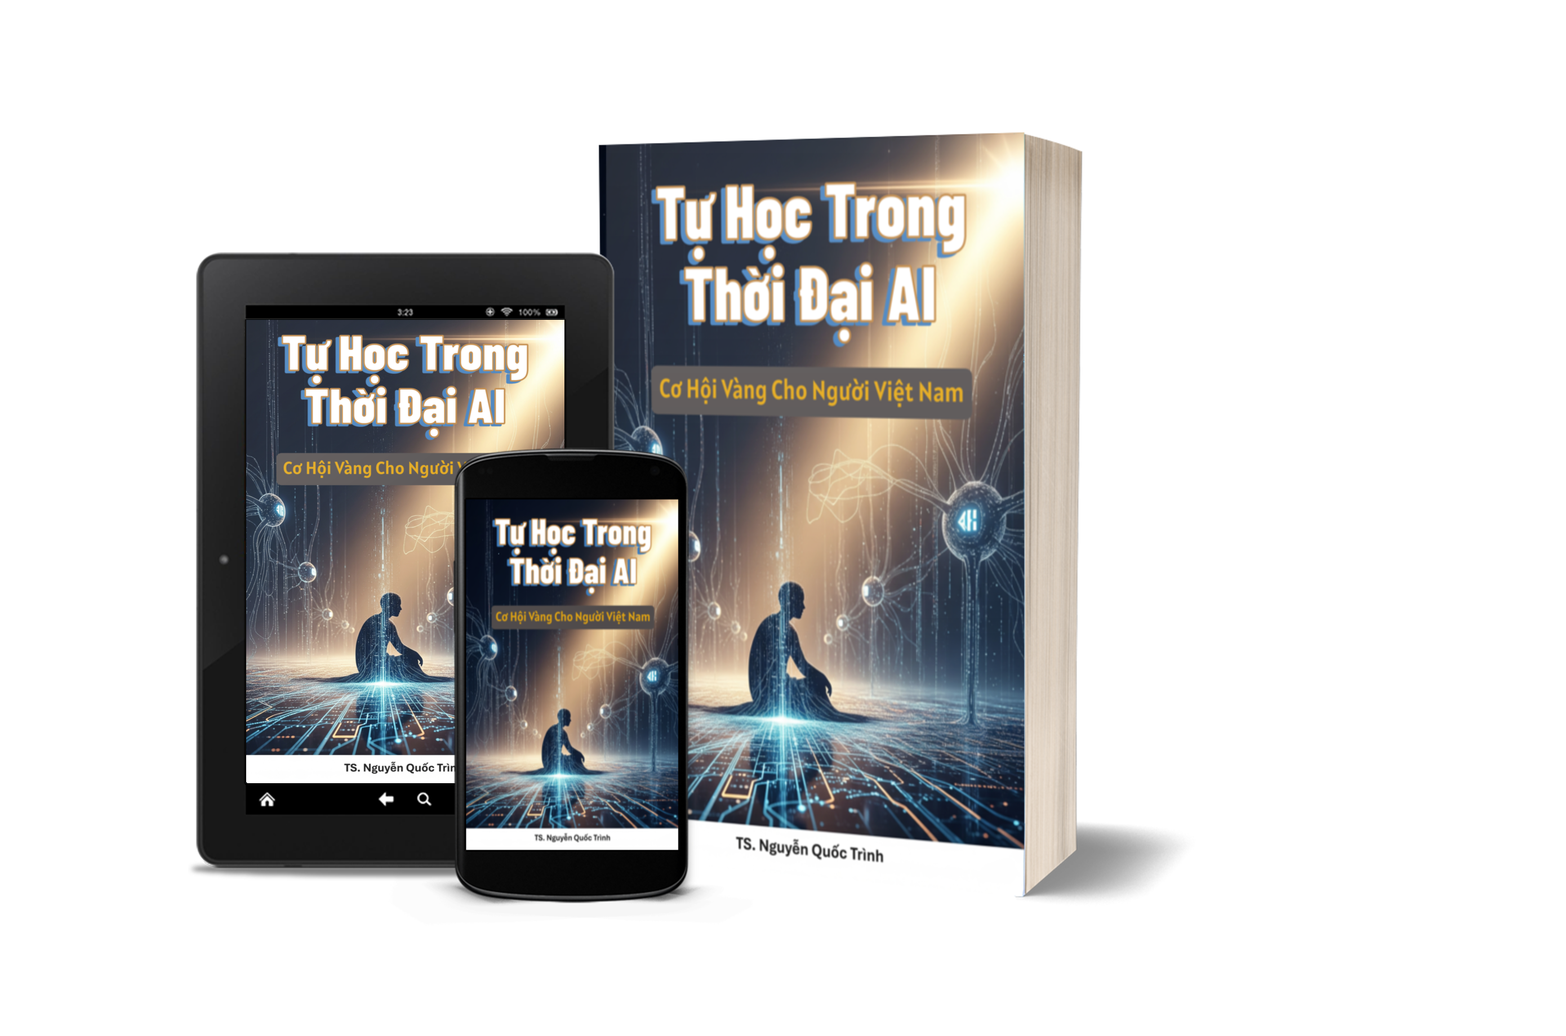
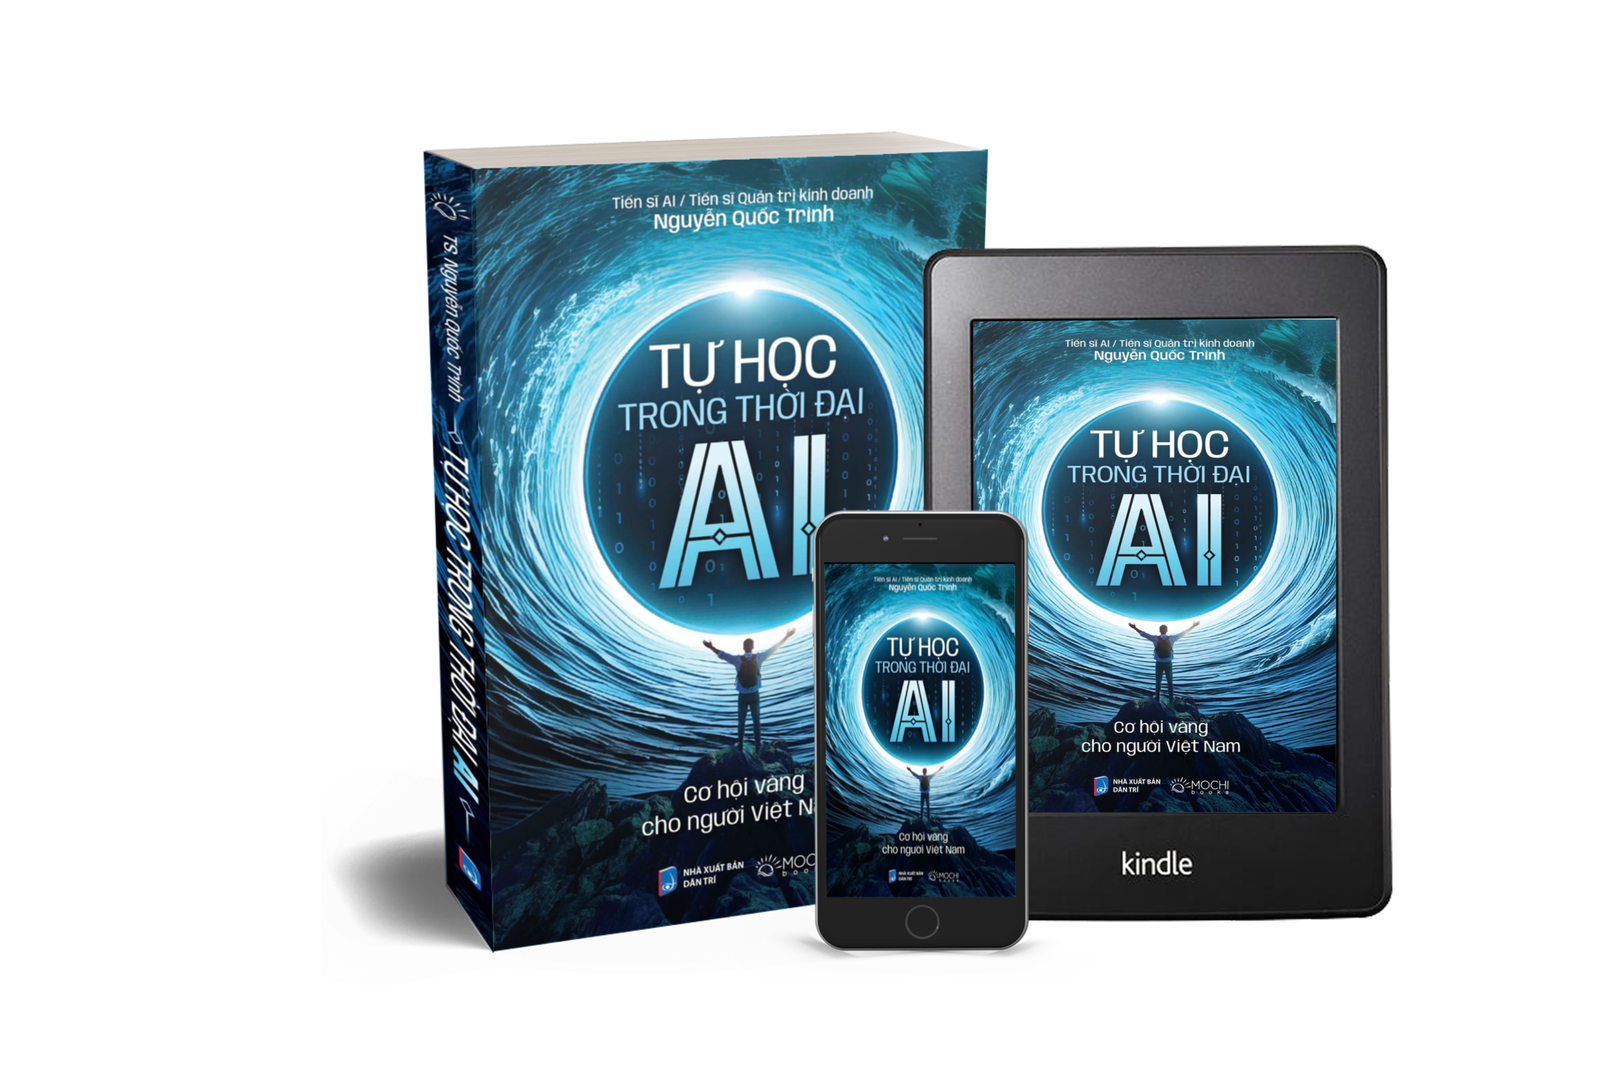
update

diff --git a/b_tu_hoc_trong_thoi_dai_ai.html b/b_tu_hoc_trong_thoi_dai_ai.html
@@ -42,10 +42,10 @@
 				        <ul class="nav-menu">
 				          <li class="menu-active"><a href="index.html">Trang Chủ</a></li>
 				          <li><a href="#author">Tác Giả</a></li>
-				          <li><a href="#fact">Fact</a></li>
-				          <li><a href="#price">Price</a></li>
-				          <li><a href="#course">Course</a></li>
-				          <li><a href="#comment">Lời Phê Bình</a></li>
+				          <!-- <li><a href="#fact">Fact</a></li> -->
+				          <li><a href="#purchase">Mua Sách</a></li>
+				          <li><a href="#course">Sách Bán Chạy</a></li>
+				          <li><a href="#comment">Lời Giới Thiệu</a></li>
 				          <li class="menu-has-children"><a href="">Danh Sách Sách</a>
 				            <ul>
 								<li><a href="b_tu_hoc_trong_thoi_dai_ai.html">Tự Học Trong Thời Đại AI</a></li>
@@ -75,7 +75,7 @@
 							<!-- <p class="text-white pt-20 pb-20">
 								Lorem ipsum dolor sit amet, consectetur adipisicing elit, sed do eiusmod temp <br> or incididunt ut labore et dolore magna aliqua. Ut enim ad minim.
 							</p> -->
-							<a href="#" class="primary-btn text-uppercase" target="_blank" rel="noopener"> Mua Ngay >></a>
+							<a href="#purchase" class="primary-btn text-uppercase" target="_blank" rel="noopener"> Mua Ngay >></a>
 						</div>
 						<div class="col-lg-5 banner-right">
 							<img class="img-fluid" src="img/b_tu_hoc_composit.png" alt="">
@@ -157,33 +157,43 @@
 			<!-- end counter Area -->
 			
 			<!-- Start price Area -->
-			<!-- <section class="price-area section-gap" id="price">
+			<section class="price-area section-gap" id="purchase">
 				<div class="container">
 					<div class="row d-flex justify-content-center">
 						<div class="menu-content pb-60 col-lg-8">
 							<div class="title text-center">
-								<h1 class="mb-10">Purchase whatever you want</h1>
-								<p>Who are in extremely love with eco friendly system.</p>
+								<h1 class="mb-10">Mua Sách Ở Trang Thương Mại Điện Tử Bạn Yêu Thích</h1>
+								<p>Các kênh phân phối chính hãng ở đây.</p>
 							</div>
 						</div>
 					</div>						
 					<div class="row">
-						<div class="col-lg-4">
+						<div class="col-lg-12">
 							<div class="single-price no-padding">
 								<div class="price-top">
-									<h4>PDF</h4>
+									<h4>Sách In Bìa Mềm</h4>
 								</div>
-								<p>
-									Who are in extremely love with <br>
-									eco friendly system.
+								<p> <strong>
+									Tên tác phẩm: Tự học trong thời đại AI: Cơ hội vàng cho người Việt Nam.
+									<br>Tên tác giả: TS. Nguyễn Quốc Trình.
+									<br>Giá: 189.000 VND, miễn phí ship toàn quốc.
+									<br>Phân phối tại nhà sách FAHASA toàn quốc và các trang thương mại điện tử: Mochibooks, Shopee, Lazada, Tiki, TikTok.
+									</strong>
 								</p>
-								<div class="price-bottom">
-									<h1><span>$</span> 79.99</h1>
-									<a href="#" class="primary-btn header-btn">Purchase Now</a>
+								<div>
+									<a href="https://mochibooks.com.vn/tuhoctrongthoidaiai" class="primary-btn">✅Mochibooks</a>
+									<a href="https://shopee.vn/product/891313018/44269688714/" class="primary-btn">✅Shopee</a>
+									<a href="https://www.lazada.vn/products/i3195112374.html... " class="primary-btn">✅Lazada</a>
+									<a href="https://tiki.vn/product-p278669362.html?spid=278669363 " class="primary-btn">✅Tiki</a>
+									<a href="https://www.tiktok.com/view/product/1732568597747238072?" class="primary-btn">✅Tiktok</a>
 								</div>
+								<!-- <div class="price-bottom">
+									<h1>189 VND</h1>
+									<a href="#" class="primary-btn header-btn">Purchase Now</a>
+								</div> -->
 							</div>
 						</div>
-						<div class="col-lg-4">
+						<!-- <div class="col-lg-4">
 							<div class="single-price no-padding">
 								<div class="price-top">
 									<h4>E-Book</h4>
@@ -197,8 +207,8 @@
 									<a href="#" class="primary-btn header-btn">Purchase Now</a>
 								</div>
 							</div>
-						</div>
-						<div class="col-lg-4">
+						</div> -->
+						<!-- <div class="col-lg-4">
 							<div class="single-price no-padding">
 								<div class="price-top">
 									<h4>Print Copy</h4>
@@ -212,10 +222,10 @@
 									<a href="#" class="primary-btn">Purchase Now</a>
 								</div>
 							</div>				
-						</div>								
+						</div>								 -->
 					</div>
 				</div>	
-			</section> -->
+			</section>
 			<!-- End price Area -->
 			
 			<!-- Start Top books Area -->	
@@ -279,103 +289,95 @@
 					<div class="row d-flex justify-content-center">
 						<div class="menu-content pb-60 col-lg-8">
 							<div class="title text-center">
-								<h1 class="mb-10">Lời Phê Bình</h1>
-								<p>Who are in extremely love with eco friendly system.</p>
+								<h1 class="mb-10">Lời Giới Thiệu </h1>
+								<p>Lời giới thiệu từ các chuyên gia và cộng đồng yêu sách.</p>
 							</div>
 						</div>
 					</div>						
 					<div class="row">
 						<div class="active-tstimonial-carusel">
 							<div class="single-testimonial item">
-								<img class="mx-auto" src="img/t1.png" alt="">
+								<img class="mx-auto" src="img/ts.hiep.png" width="128" height="128" alt="TS Hiep">
 								<p class="desc">
-									Accessories Here you can find the best computer accessory for your laptop, monitor, printer, scanner, speaker, projector, hardware and more. laptop accessory
+									Trong thời đại mà AI thay đổi mọi thứ với tốc độ chóng mặt, nhiều người vẫn đang tìm kiếm câu trả lời cho câu hỏi: 'Tôi nên học gì và học như thế nào?'
+									<br>Cuốn sách của Tiến sĩ Trình không chỉ trả lời câu hỏi này mà còn chỉ ra con đường thực tiễn để thích nghi với thế giới mới.
+									<br> Điều tôi đánh giá cao nhất ở cuốn sách này là tính chân thực. Tác giả không vẽ ra một bức tranh hoa hồng về tương lai, cũng không tạo ra nỗi sợ hãi không cần thiết về AI. Thay vào đó, ông nhìn thẳng vào thực tế và đưa ra những gợi ý cụ thể, có thể áp dụng ngay.
+									<br> Với hơn hai thập kỷ kinh nghiệm và chuyên sâu về tiếp thị, bán hàng và quản lý tổng quát ở Việt Nam và Đông Dương, tôi thấy cuốn sách này rất cần thiết cho bất kỳ ai muốn không chỉ sống sót mà còn phát triển trong thời đại AI. Văn phong rõ ràng, dễ hiểu nhưng không kém phần sâu sắc, đúng như những gì một cuốn sách về tự học cần có.
+									<br> Tôi mong mọi người, từ học sinh, sinh viên đến những người đã có kinh nghiệm trong nghề, nên đọc qua cuốn sách này. Không phải để tìm kiếm những công thức thần kỳ, mà để tìm lại động lực học hỏi và phương pháp học đúng đắn.
 								</p>
-								<h4>Mark Alviro Wiens</h4>
+								<h4>Tiến sĩ Huỳnh Văn Hòa Hiệp</h4>
 								<p>
-									CEO at Google
+									Tiến sĩ quản trị kinh doanh từ IBSS Copenhagen
+									<br>Nguyên giám đốc điều hành AIVISION
+									<br>Thành viên hội đồng quản trị - Giám đốc điều hành bộ phận giáo dục Alpha Vision
+									<br>Đại sứ Trường Scandinavia, Copenhagen, Đan Mạch
 								</p>
 							</div>
 							<div class="single-testimonial item">
-								<img class="mx-auto" src="img/t2.png" alt="">
+								<img class="mx-auto" src="img/ts.vu.png" width="128" height="128" alt="TS Vu">
 								<p class="desc">
-									Accessories Here you can find the best computer accessory for your laptop, monitor, printer, scanner, speaker, projector, hardware and more. laptop accessory
+									Tôi đã làm việc trong nhiều lĩnh vực, từ du lịch đến giáo dục đại học, từ khách sạn đến phát triển cộng đồng. Qua nhiều năm kinh nghiệm, tôi gặp gỡ,  tiếp xúc với nhiều người khác nhau. Họ khác nhau về nghề nghiệp, học vấn và hoàn cảnh. Nhưng những người thành công đều có chung một đặc điểm: họ không ngừng tự học.
+									<br>Cuốn sách này là lời kêu gọi dành cho tất cả người Việt. Không quan trọng bạn là ai, bạn ở đâu và bạn làm gì. Điều quan trọng là bạn có muốn thích ứng với thời đại AI hay không.
+									<br>Tác giả không hứa hẹn thành công nhanh chóng và ông không bán công thức thần kỳ. Thay vào đó, ông chia sẻ phương pháp thực tế. Phương pháp mà bất kỳ ai cũng có thể áp dụng.
+									<br>Tôi thích cách tác giả viết. Ông không dùng từ ngữ cao siêu và không khoe khoang kiến thức. Ông kể những câu chuyện đơn giản mà ai cũng hiểu được.
+									<br>Tôi nghĩ cuốn sách này cần thiết cho người Việt hiện tại. Thế giới thay đổi nhanh và công nghệ phát triển mạnh. Nếu chúng ta không tự học, chúng ta sẽ bị tụt lại phía sau.
+									<br>Không quan trọng bạn là bác sĩ hay nông dân. Không quan trọng bạn ở Hà Nội hay ở New York. Bạn đều cần khả năng tự học vì đây là kỹ năng sống còn trong thời đại này.
+									<br>Tôi hi vọng mọi người Việt đọc cuốn sách này. Không phải vì nó hoàn hảo, mà vì nó thực tế và chân thành. Nó viết cho chúng ta - những người Việt muốn thích ứng trong thời đại mới, dù ở bất cứ đâu trên thế giới.
 								</p>
-								<h4>Mark Alviro Wiens</h4>
+								<h4>Tiến sĩ Đặng Thanh Vũ</h4>
 								<p>
-									CEO at Google
+									Phó chủ tịch Hội Giáo dục và Đào Tạo TP.HCM
+									<br>Nguyên giám đốc điều hành trường Đại học Văn Hiến
+									<br>Thành viên Hội đồng xét tặng Giải thưởng Sáng tạo TP.HCM lần thứ 4, năm 2025
 								</p>
 							</div>
 							<div class="single-testimonial item">
-								<img class="mx-auto" src="img/t3.png" alt="">
+								<img class="mx-auto" src="img/ts.thinh.png" width="128" height="128" alt="TS Thinh">
 								<p class="desc">
-									Accessories Here you can find the best computer accessory for your laptop, monitor, printer, scanner, speaker, projector, hardware and more. laptop accessory
+									Sau hơn 20 năm làm việc trong lĩnh vực tư vấn và điều hành doanh nghiệp, tôi đã theo dõi sự phát triển của nhiều công nghệ. AI mang lại một sự thay đổi khác biệt. Công nghệ này không chỉ cải thiện quy trình mà còn định hình lại cách tiếp cận công việc.
+									<br>Tiến sĩ Nguyễn Quốc Trình đã chọn thời điểm phù hợp để xuất bản cuốn sách này. Tác giả trình bày AI không phải là khái niệm xa lạ mà là một công cụ thiết thực cho doanh nghiệp Việt Nam hiện tại.
+									<br>Tôi đánh giá cao cách tiếp cận thực tiễn của tác giả. Ông tập trung vào hướng dẫn cụ thể thay vì lý thuyết phức tạp. Mỗi loại hình doanh nghiệp, từ quy mô nhỏ đến lớn, đều có thể áp dụng những gợi ý trong sách.
+									<br>Trải nghiệm làm việc tại Nhật Bản của tác giả kết hợp với việc am hiểu thị trường Việt Nam tạo ra những phân tích sâu sắc. Thay vì áp dụng máy móc các mô hình quốc tế, ông điều chỉnh phù hợp với bối cảnh Việt Nam.
+									<br>Nội dung về sự quan trọng của tự học mang lại nhiều giá trị thực tế. Qua việc quản lý các doanh nghiệp khác nhau, tôi nhận thấy việc nhân viên tự nâng cao kỹ năng của mình trong môi trường AI là yếu tố then chốt. Cuốn sách đưa ra cách thức cụ thể cho vấn đề này.
+									<br>Các doanh nhân Việt Nam nên tham khảo cuốn sách này. Mục đích không phải là áp dụng công nghệ một cách máy móc, mà là hiểu cách tận dụng AI để xây dựng lợi thế cạnh tranh bền vững. AI đã trở thành hiện thực trong kinh doanh. Cuốn sách này cung cấp kiến thức cần thiết để thích ứng với thực tế này.
 								</p>
-								<h4>Mark Alviro Wiens</h4>
+								<h4>Tiến sĩ Trần Đức Thịnh</h4>
 								<p>
-									CEO at Google
+									Phó giám đốc thường trực trung tâm Tư Vấn Phát triển Kinh tế Thương mại Việt Nam
+									<br>Phó viện trưởng Viện Nghiên Cứu Phát triển Kinh tế Thương mại
+									<br>Trưởng ban tổ chức cuộc thi Bản lĩnh Doanh nhân
 								</p>
 							</div>	
 							<div class="single-testimonial item">
-								<img class="mx-auto" src="img/t1.png" alt="">
+								<img class="mx-auto" src="img/ths.nam.png" width="128" height="128" alt="ThS Nam">
 								<p class="desc">
-									Accessories Here you can find the best computer accessory for your laptop, monitor, printer, scanner, speaker, projector, hardware and more. laptop accessory
+									Trong bối cảnh cuộc cách mạng công nghiệp 5.0 đang diễn ra mạnh mẽ, việc tái định nghĩa phương thức tự học trở thành chìa khóa dẫn đến thành công. Cuốn sách ‘Tự Học Trong Thời Đại AI’ của Tiến sĩ Nguyễn Quốc Trình xuất hiện đúng thời điểm, đáp ứng nhu cầu cấp thiết này.
+									<br> Tác giả đã khéo léo kết hợp giữa lý thuyết giáo dục và những ứng dụng cụ thể của AI trong quá trình học tập. Cuốn sách không chỉ phân tích sâu sắc về những thay đổi căn bản mà AI mang lại cho giáo dục, mà còn đưa ra những hướng dẫn cụ thể, dễ áp dụng cho người học.
+									<br> Điều đặc biệt ấn tượng là cách Tiến sĩ Trình trình bày các ví dụ minh họa một cách sinh động và gần gũi, giúp người đọc dễ dàng hình dung và vận dụng các phương pháp được đề xuất. Tác phẩm còn đề cập đến những thách thức và rủi ro tiềm ẩn khi sử dụng AI trong học tập, đồng thời đưa ra các giải pháp phòng ngừa và xử lý hiệu quả.
+									<br> Từ kinh nghiệm đào tạo cho nhiều tổ chức và doanh nghiệp lớn như BIDV, Techcombank, FPT, VNPT..., tôi nhận thấy điểm mạnh của tác phẩm nằm ở cách tiếp cận thực tiễn và tầm nhìn dài hạn, giúp độc giả không chỉ thích ứng mà còn chủ động tận dụng công nghệ AI để nâng cao hiệu quả học tập.
+									<br> Cuốn sách cũng đặc biệt hữu ích cho các nhà quản lý và lãnh đạo doanh nghiệp khi đưa ra cái nhìn sâu sắc về việc xây dựng văn hóa học tập liên tục trong tổ chức. Các phương pháp được đề xuất có thể dễ dàng áp dụng trong môi trường doanh nghiệp để nâng cao năng lực cạnh tranh của đội ngũ nhân sự.
+									<br> Với lối viết dễ hiểu, logic rõ ràng và nội dung phong phú, tác phẩm không chỉ phù hợp với độc giả chuyên môn mà còn tiếp cận được với đại chúng. Đây thực sự là một cuốn cẩm nang hữu ích cho mọi người trong thời đại số hóa.
 								</p>
-								<h4>Mark Alviro Wiens</h4>
+								<h4>Thạc sĩ Nguyễn Đình Nam</h4>
 								<p>
-									CEO at Google
+									CEO – New Plus Media – Agency Marketing
+									<br> Giám đốc Marketing – Orchard Resort Nam Cát Tiên
+									<br> Giám đốc Marketing – Global Health
+									<br> Huấn luyện viên doanh nghiệp
 								</p>
 							</div>
 							<div class="single-testimonial item">
-								<img class="mx-auto" src="img/t2.png" alt="">
+								<img class="mx-auto" src="img/ths.phan.png" width="128" height="128" alt="ThS Phan">
 								<p class="desc">
-									Accessories Here you can find the best computer accessory for your laptop, monitor, printer, scanner, speaker, projector, hardware and more. laptop accessory
+									<br> Thật may mắn cho tôi được sinh ra lớn lên trong thời đại công nghệ phát triển từ sơ khai đến hiện đại, ngày đầu tiên học MS.DOS 3.3 gõ từng dòng lệnh đến ngày hôm nay cầm điện thoại ra lệnh AI tự xử lý làm nhiều thứ mình cần. May mắn hơn nữa tôi cũng đảm nhiệm vài trò người Thầy trong việc giảng dạy CNTT truyền đạt cho các thế hệ đàn em bao nhiêu kiến thức kỹ năng lập trình và các môn học khác. Khi được TS. Nguyễn Quốc Trình gửi bản thảo cuốn sách “Tự học trong thời đại AI” như đúng vào những thứ mình đang rất cần trong thời đại AI là “Phương Pháp”. Cổ nhân có dạy: “Biết phương pháp thì người thường cũng làm nên việc phi thường, ngược lại không biết phương pháp người tài cũng lạc lối”. 
+									<br> Cuốn sách này cung cấp đầy đủ các kỹ năng và phương pháp giúp người đọc vận dụng AI để tự học hiệu quả nhất. Sách phân tích sâu sắc về những thay đổi mà AI mang lại cho giáo dục và đề xuất các phương pháp học hiện đại, thực tế, có thể áp dụng ngay cho bất cứ ai muốn phát triển trong thời đại AI. Tác giả nhấn mạnh: Không phải ai cũng có tài năng bẩm sinh, nhưng ai cũng có thể rèn luyện khả năng tự học, chủ động chọn lọc thông tin, áp dụng AI như một công cụ hỗ trợ học tập. AI không chỉ giúp tiết kiệm thời gian mà còn giúp cá nhân hóa quá trình học. Các kỹ năng tự học thời AI như: biết đặt câu hỏi đúng, chọn lọc thông tin, kiểm tra chéo nguồn tin, thực hành lập kế hoạch học tập, biến kiến thức thành thói quen, và khai thác AI làm “gia sư 24/7” là những điểm nổi bật trong sách.
+									<br> Cuốn sách nhấn mạnh nghị lực chiến thắng chính mình, nâng cao kỷ luật và sự nghiêm túc với lộ trình học tập. Những ai cần thêm nghị lực để rèn luyện bản thân hãy đọc thật kỹ cuốn sách này, dùng AI để học nhưng cá nhân của bạn được xã hội công nhận nhờ kỹ năng, thái độ và kiến thức riêng của bạn. Qua sách cho thấy người Việt Nam hoàn toàn có thể thành công nếu thay đổi tư duy: mở rộng tầm nhìn, có kế hoạch xa, trung thực và tin tưởng người thầy. Chúng ta hãy tập nhìn xa như người lái xe đỡ xử lý lụp chụp, trong thời đại AI cần phải có kế hoạch xa như trong cuốn sách mô tả để bạn thong thả về đích thành công nhẹ nhàng thư thái.
 								</p>
-								<h4>Mark Alviro Wiens</h4>
+								<h4>Thạc sĩ Lê Văn Phận</h4>
 								<p>
-									CEO at Google
+									GV CNTT - Trường Đại học Nông Lâm TP.HCM
 								</p>
-							</div>
-							<div class="single-testimonial item">
-								<img class="mx-auto" src="img/t3.png" alt="">
-								<p class="desc">
-									Accessories Here you can find the best computer accessory for your laptop, monitor, printer, scanner, speaker, projector, hardware and more. laptop accessory
-								</p>
-								<h4>Mark Alviro Wiens</h4>
-								<p>
-									CEO at Google
-								</p>
-							</div>															
-							<div class="single-testimonial item">
-								<img class="mx-auto" src="img/t1.png" alt="">
-								<p class="desc">
-									Accessories Here you can find the best computer accessory for your laptop, monitor, printer, scanner, speaker, projector, hardware and more. laptop accessory
-								</p>
-								<h4>Mark Alviro Wiens</h4>
-								<p>
-									CEO at Google
-								</p>
-							</div>
-							<div class="single-testimonial item">
-								<img class="mx-auto" src="img/t2.png" alt="">
-								<p class="desc">
-									Accessories Here you can find the best computer accessory for your laptop, monitor, printer, scanner, speaker, projector, hardware and more. laptop accessory
-								</p>
-								<h4>Mark Alviro Wiens</h4>
-								<p>
-									CEO at Google
-								</p>
-							</div>
-							<div class="single-testimonial item">
-								<img class="mx-auto" src="img/t3.png" alt="">
-								<p class="desc">
-									Accessories Here you can find the best computer accessory for your laptop, monitor, printer, scanner, speaker, projector, hardware and more. laptop accessory
-								</p>
-								<h4>Mark Alviro Wiens</h4>
-								<p>
-									CEO at Google
-								</p>
-							</div>														
+							</div>												
 						</div>
 					</div>
 				</div>	

diff --git a/parts/top_books.html b/parts/top_books.html
@@ -12,7 +12,7 @@
         <div class="row">
             <div class="active-course-carusel">
                 <div class="single-course item">
-                    <img class="img-fluid" src="img/b_tu_hoc_2d.png" alt="">
+                    <img class="img-fluid" src="img/b_tu_hoc.png" alt="">
                     <!-- <p class="sale-btn">For Sale</p> -->
                     <div class="details">
                         <a href="b_tu_hoc_trong_thoi_dai_ai.html"><h4>Tự Học Trong Thời Đại AI <br> <span class="price float-right">189K</span></h4></a>

diff --git a/js/main.js b/js/main.js
@@ -189,7 +189,7 @@ $(document).ready(function(){
     });
 
         $('.active-tstimonial-carusel').owlCarousel({
-        items:3,
+        items:2,
         margin:30,
         autoplay:true,
         loop:true,
@@ -205,7 +205,7 @@ $(document).ready(function(){
                 items: 2,
             },
             900: {
-                items: 3,
+                items: 2,
             }
 
         }

diff --git a/css/main.css b/css/main.css
@@ -2729,6 +2729,7 @@ body.mobile-nav-active #mobile-nav-toggle {
 
 .single-testimonial .desc {
   padding: 30px 0px;
+  text-align: left;
 }
 
 .footer-area {
